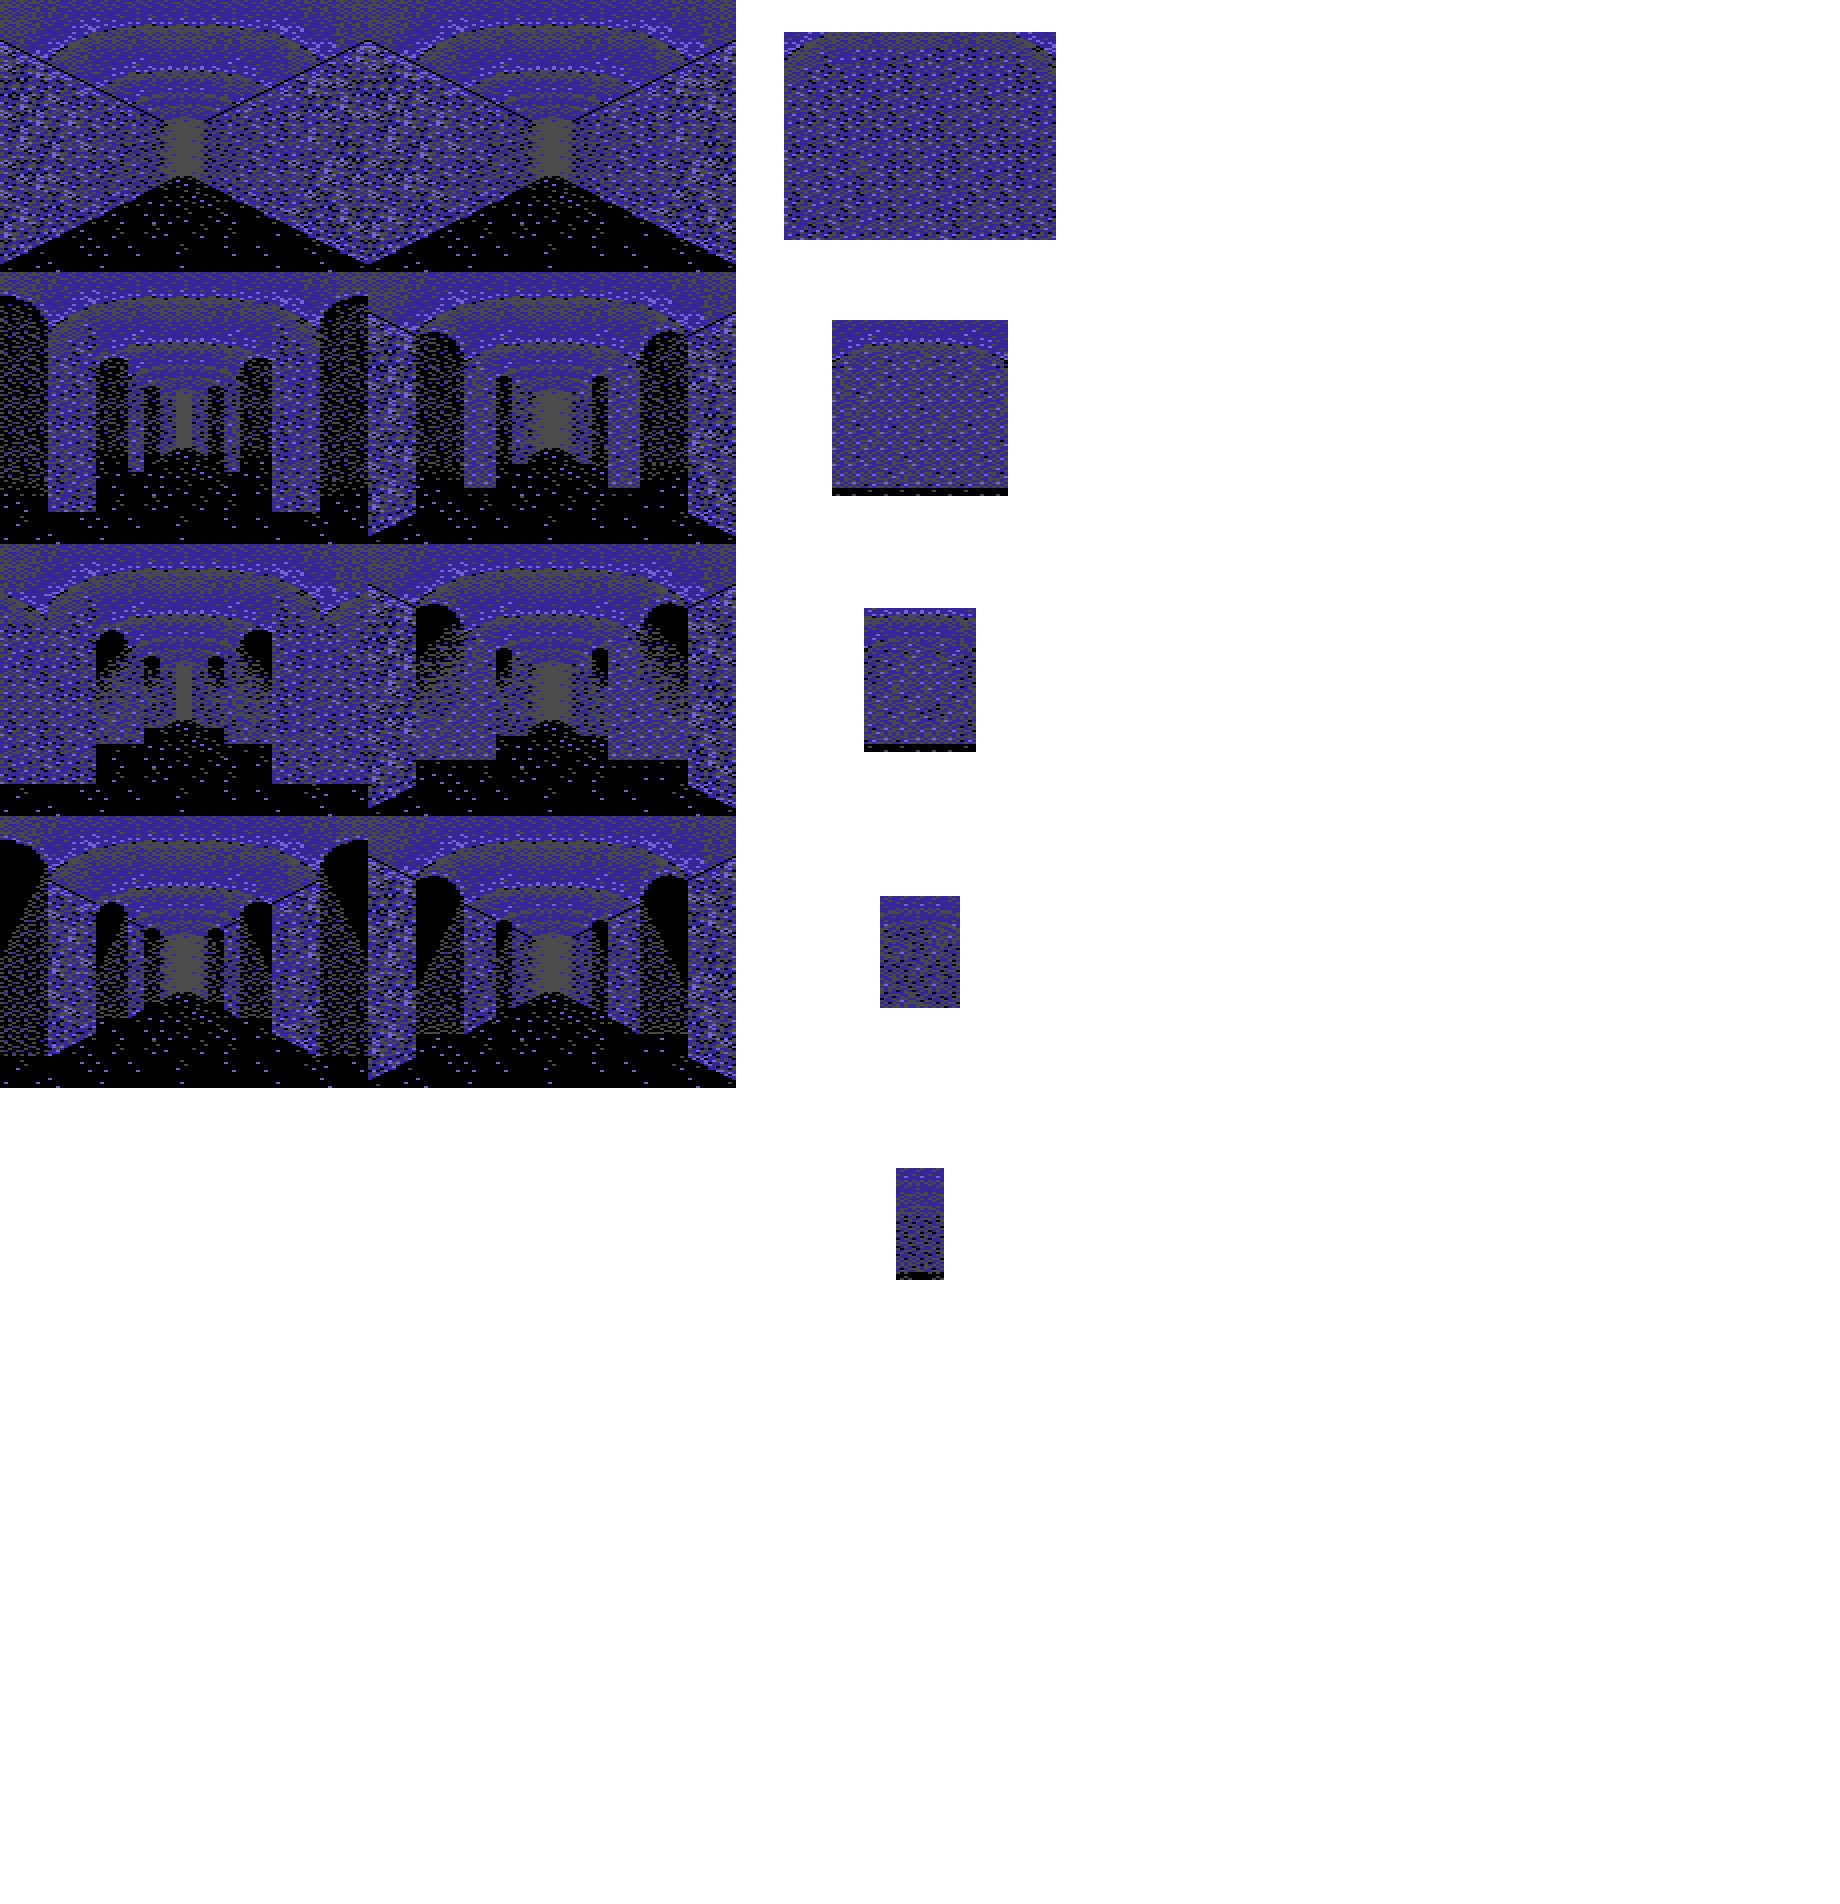
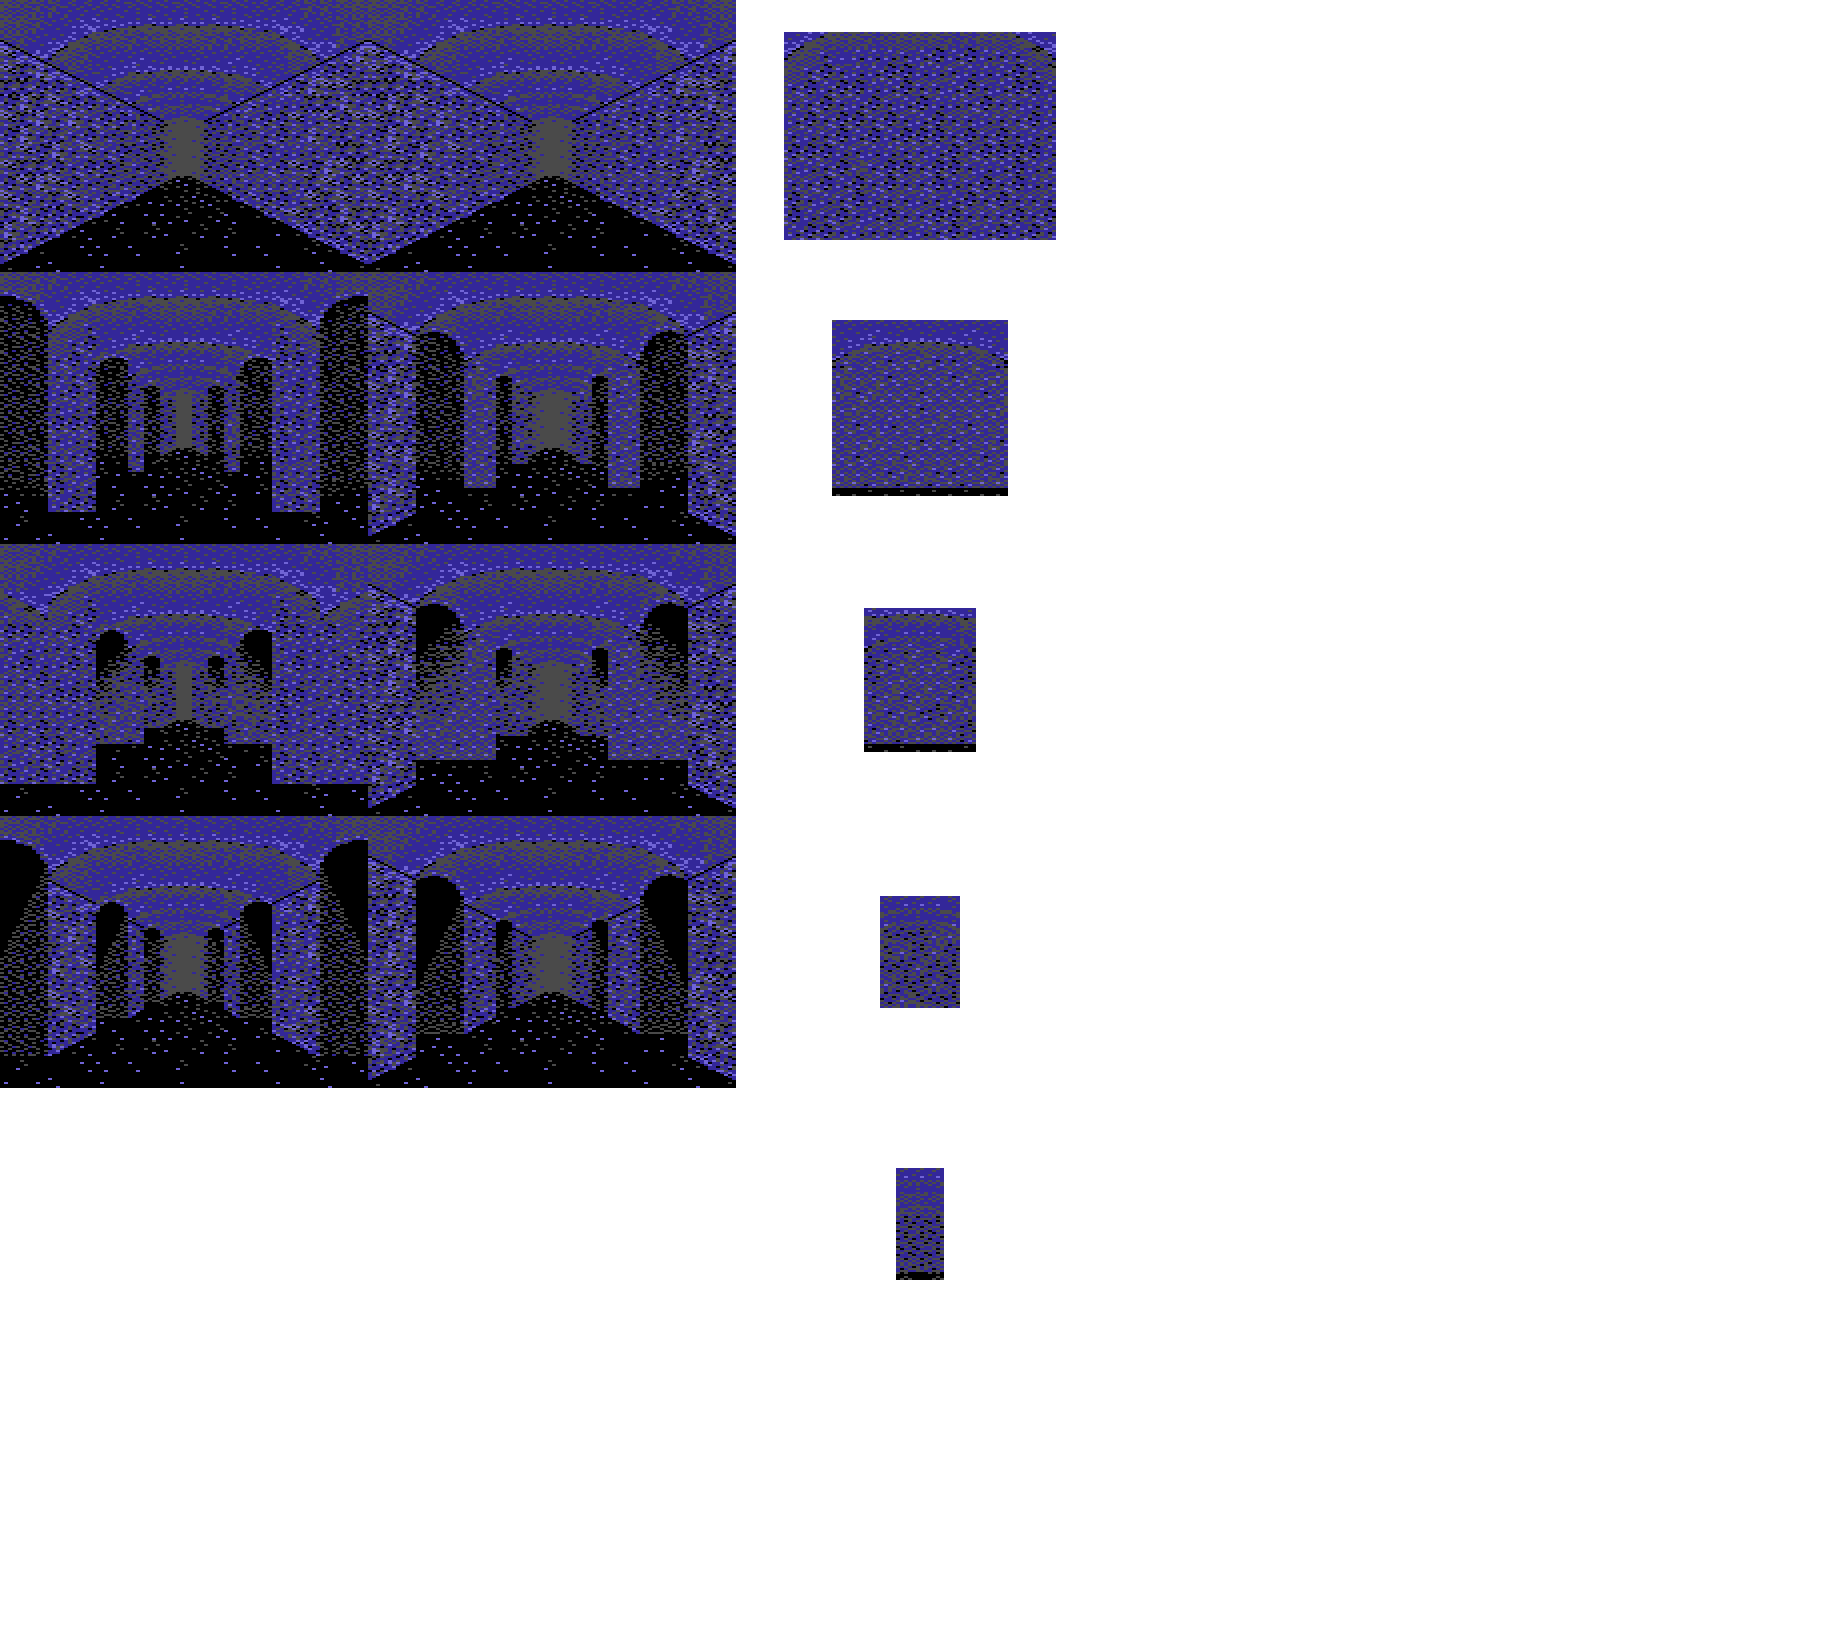
Animation of exhibits on side walls works.
git-svn-id: svn://192.168.0.200/Xle/trunk@340 8e2493a0-6f32-3e4d-a2e5-9abab0ebc7f0

Changed region(s): [[0.0, 0.0, 0.5886, 0.6875], [0.4647, 0.7188, 0.5266, 0.7812]]

diff --git a/Xle/Maps/Renderers/Map3DRenderer.cs b/Xle/Maps/Renderers/Map3DRenderer.cs
@@ -45,6 +45,9 @@ namespace ERY.Xle.Maps.Renderers
 		}
 
 		Dictionary<int, TorchAnim> torchAnims = new Dictionary<int, TorchAnim>();
+		int exhibitFrame;
+		double exhibitAnimTime;
+		const double exhibitFrameTime = 60;
 
 		public new Map3D TheMap { get { return (Map3D)base.TheMap; } }
 		public new Map3DExtender Extender { get { return (Map3DExtender)base.Extender; } }
@@ -100,9 +103,23 @@ namespace ERY.Xle.Maps.Renderers
 			DrawImpl(playerPos.X, playerPos.Y, faceDirection, inRect);
 		}
 
+		private void AdvanceAnimation()
+		{
+			exhibitAnimTime += Display.DeltaTime;
+
+			if (exhibitAnimTime > exhibitFrameTime)
+			{
+				exhibitAnimTime %= exhibitFrameTime;
+				exhibitFrame++;
+				exhibitFrame %= 3;
+			}
+
+			AnimateTorches();
+		}
+
 		void AnimateTorches()
 		{
-			foreach(var ta in torchAnims.Values)
+			foreach (var ta in torchAnims.Values)
 			{
 				ta.NextAnimTime -= Display.DeltaTime;
 
@@ -116,7 +133,7 @@ namespace ERY.Xle.Maps.Renderers
 
 		void DrawImpl(int x, int y, Direction faceDirection, Rectangle inRect)
 		{
-			AnimateTorches();
+			AdvanceAnimation();
 
 			if (DrawCloseup)
 			{
@@ -210,7 +227,7 @@ namespace ERY.Xle.Maps.Renderers
 
 			if (torchAnims.ContainsKey(taHash) == false)
 				torchAnims[taHash] = new TorchAnim();
-			
+
 			anim = torchAnims[taHash];
 
 			Size torchSize = new Size(60, 84);
@@ -220,7 +237,7 @@ namespace ERY.Xle.Maps.Renderers
 			FillTorchDestPositions(destPositions);
 
 			Rectangle srcRect = new Rectangle(
-				anim.CurrentFrame * torchSize.Width, 
+				anim.CurrentFrame * torchSize.Width,
 				torchSize.Height * (side + 1 + 3 * distance),
 				torchSize.Width,
 				torchSize.Height);
@@ -322,10 +339,37 @@ namespace ERY.Xle.Maps.Renderers
 			destRect = GetSidePassageDestRect(distance, false, leftType, maindestRect);
 			Surfaces.Walls.Draw(srcRect, destRect);
 
+			if (leftType == SideWallType.Exhibit && AnimateExhibits)
+			{
+				if (distance % 2 == 0)
+					srcRect.X += imageSize.Width;
+
+				if (distance <= 2)
+					Surfaces.Walls.Color = ExhibitColor(leftValue);
+
+				srcRect.X += imageSize.Width * (1 + exhibitFrame);
+				Surfaces.Walls.Draw(srcRect, destRect);
+
+				Surfaces.Walls.Color = Color.White;
+			}
+
 			srcRect = GetSidePassageSrcRect(distance, true, rightType);
 			destRect = GetSidePassageDestRect(distance, true, rightType, maindestRect);
 			Surfaces.Walls.Draw(srcRect, destRect);
 
+			if (rightType == SideWallType.Exhibit && AnimateExhibits)
+			{
+				if (distance % 2 == 0)
+					srcRect.X += imageSize.Width;
+
+				if (distance <= 2)
+					Surfaces.Walls.Color = ExhibitColor(rightValue);
+
+				srcRect.X += imageSize.Width * (1 + exhibitFrame);
+				Surfaces.Walls.Draw(srcRect, destRect);
+
+				Surfaces.Walls.Color = Color.White;
+			}
 		}
 
 		private int MapValueAt(Point leftPt)
@@ -393,7 +437,7 @@ namespace ERY.Xle.Maps.Renderers
 			//		break;
 			//}
 
-			
+
 			retval.X *= 16;
 			retval.Y *= 16;
 			retval.Width *= 16;
@@ -528,12 +572,19 @@ namespace ERY.Xle.Maps.Renderers
 
 			if (val == 2)
 				srcRect.X += screenSize.Width;
-			if (val >= 0x50 && val <= 0x5f)
-				srcRect.X += screenSize.Width * 2;
 
 			Surfaces.Walls.Draw(
 				srcRect,
 				main_destRect);
+
+			if (val >= 0x50 && val <= 0x5f)
+			{
+				srcRect.X += screenSize.Width * 2;
+
+				Surfaces.Walls.Draw(
+					srcRect,
+					main_destRect);
+			}
 
 		}
 
@@ -568,5 +619,9 @@ namespace ERY.Xle.Maps.Renderers
 		protected virtual void DrawMuseumExhibit(int distance, Rectangle destRect, int val)
 		{
 		}
+
+		protected virtual Color ExhibitColor(int val) { return XleColor.White; }
+
+		public bool AnimateExhibits { get; set; }
 	}
 }

diff --git a/Xle/Maps/Renderers/MuseumRenderer.cs b/Xle/Maps/Renderers/MuseumRenderer.cs
@@ -55,6 +55,16 @@ namespace ERY.Xle.Maps.Renderers
 
 		#endregion
 
+		protected override Color ExhibitColor(int val)
+		{
+			var exhibit = ((MuseumExtender)TheMap.Extender).GetExhibitByTile(val);
+
+			if (exhibit == null)
+				return base.ExhibitColor(val);
+
+			return exhibit.ExhibitColor;
+		}
+		
 		protected override void DrawMuseumExhibit(int distance, Rectangle destRect, int val)
 		{
 			var exhibit = ((MuseumExtender)TheMap.Extender).GetExhibitByTile(val);

diff --git a/LegacyOfTheAncients/MapExtenders/Museum/LotaMuseumExtender.cs b/LegacyOfTheAncients/MapExtenders/Museum/LotaMuseumExtender.cs
@@ -55,6 +55,7 @@ namespace ERY.Xle.LotA.MapExtenders.Museum
 		public override void OnLoad(GameState state)
 		{
 			CheckExhibitStatus(state);
+			MapRenderer.AnimateExhibits = true;
 		}
 
 		public override void OnAfterEntry(GameState state)
